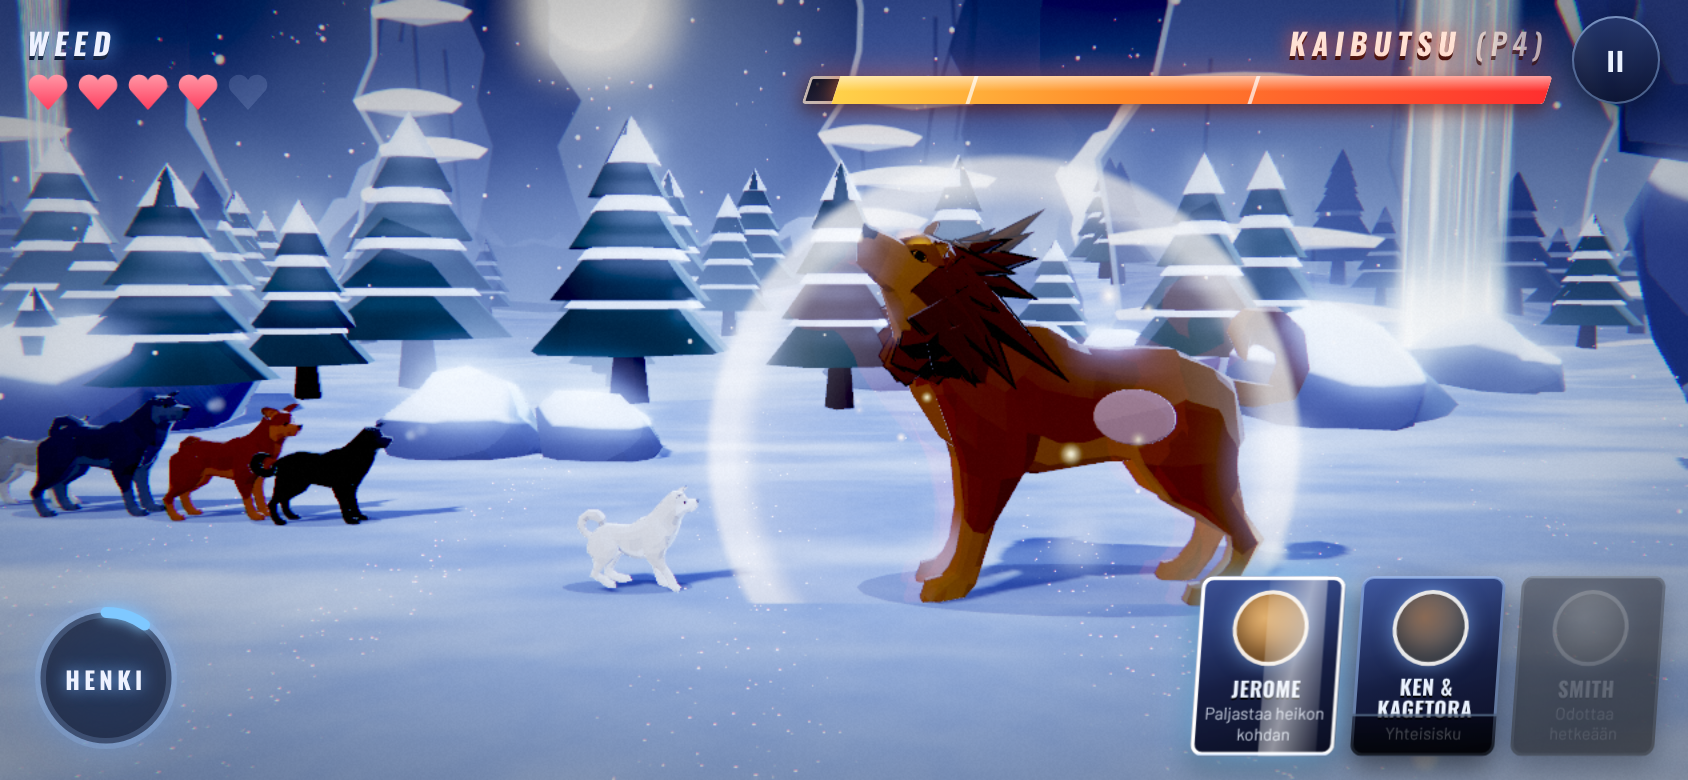
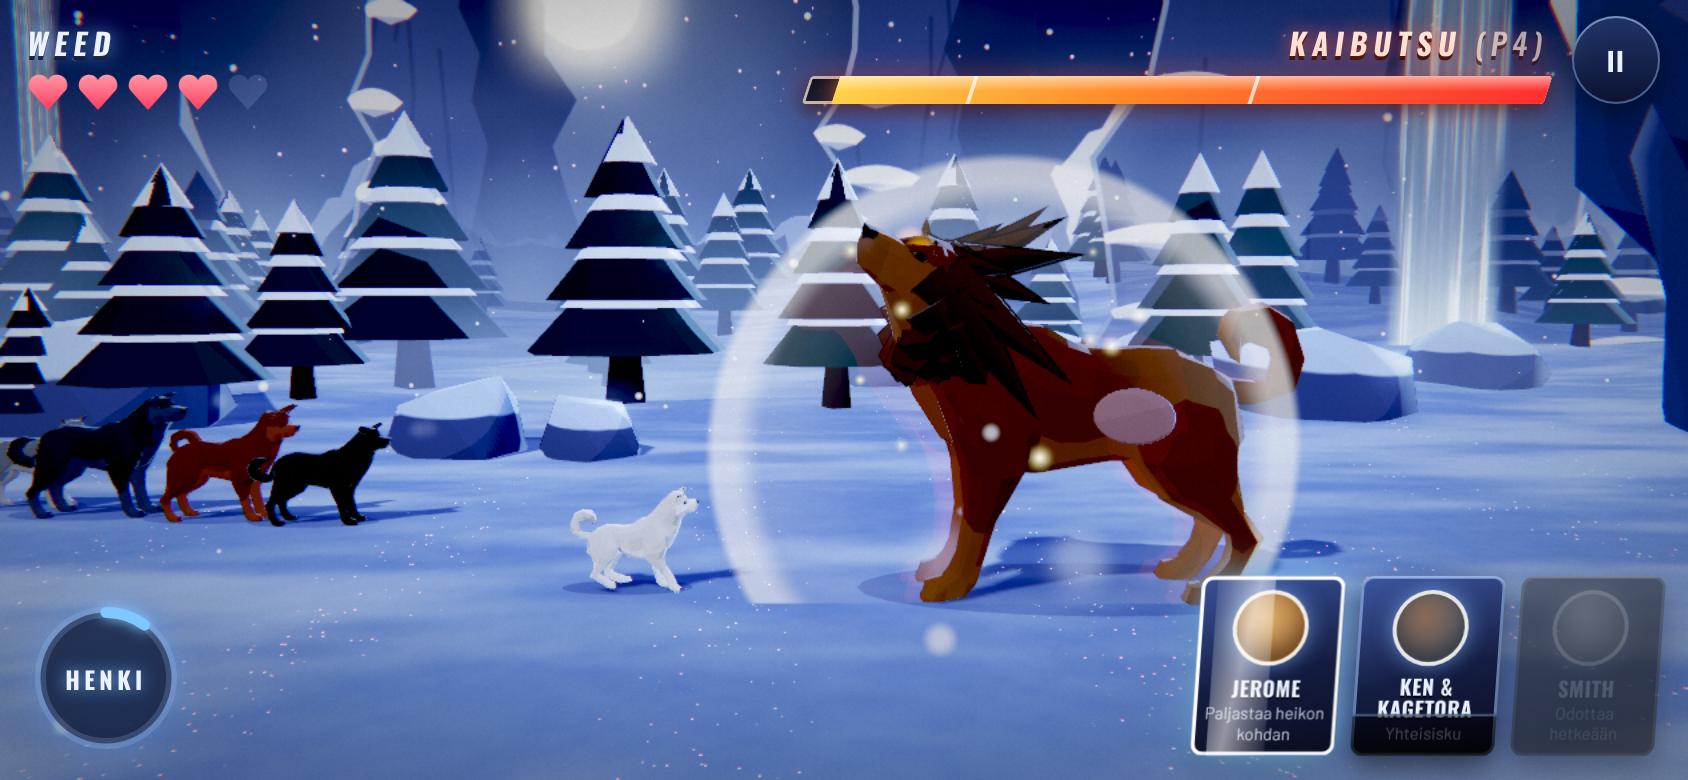
WIP gfx: tuning moods, cliff, iris transition
Claude-Session: https://claude.ai/code/session_016HLENcW9gu6Sv4d15G8kND

diff --git a/weed-game/src/world.js b/weed-game/src/world.js
@@ -124,11 +124,10 @@ function paintSpires(g, w, h) {
     g.globalAlpha = 1;
     // kuunvalon reuna vasemmalla
     g.strokeStyle = 'rgba(190,210,255,0.55)'; g.lineWidth = 5; g.beginPath(); g.moveTo(L[0][0] + 2, L[0][1]); for (const p of L) g.lineTo(p[0] + 2, p[1]); g.lineTo(tip[0], tip[1]); g.stroke();
-    // lumihyllyt
-    for (let i = 2; i <= N; i += 1 + Math.floor(r() * 3)) {
-      const y = L[i][1], x0 = L[i][0] - 2, x1 = x0 + (R[i][0] - L[i][0]) * (0.12 + r() * 0.28);
-      g.fillStyle = '#e4ecff'; g.beginPath(); g.moveTo(x0, y); g.quadraticCurveTo((x0 + x1) / 2, y - 12 - r() * 8, x1, y + 2); g.lineTo(x1 - 8, y + 9); g.lineTo(x0 + 4, y + 7); g.closePath(); g.fill();
-      g.fillStyle = '#93a6dc'; g.beginPath(); g.moveTo(x0 + 6, y + 6); g.lineTo(x1 - 6, y + 8); g.lineTo((x0 + x1) / 2, y + 13); g.closePath(); g.fill();
+    // lumijuovat vasemmalla reunalla
+    for (let i = 2; i <= N; i += 1 + Math.floor(r() * 2)) {
+      const y = L[i][1], x0 = L[i][0] - 1, len = 14 + r() * 30;
+      g.fillStyle = '#dfe8ff'; g.beginPath(); g.moveTo(x0, y - 6); g.lineTo(x0 + len, y + 4 + r() * 6); g.lineTo(x0 + len * 0.5, y + 12 + r() * 10); g.lineTo(x0 + 1, y + 16); g.closePath(); g.fill();
     }
     // huipun lumi
     g.fillStyle = '#eef3ff'; g.beginPath(); g.moveTo(tip[0], tip[1] - 2); g.lineTo(L[N][0] - 4, L[N][1] + 26); g.lineTo(x - 4, L[N][1] + 12 + r() * 20); g.lineTo(x + 10, L[N][1] + 40); g.lineTo(R[N][0] + 2, L[N][1] + 14); g.closePath(); g.fill();
@@ -329,6 +328,15 @@ export function buildWorld() {
     g.computeVertexNormals();
     return g;
   };
+  const slabGeo = (rad, seed) => {          // kulmikas kalliolohkare (jalusta)
+    const rr = rng(seed);
+    let g = new THREE.BoxGeometry(rad * 1.5, rad * 3.2, rad * 1.5, 2, 3, 2);
+    g.deleteAttribute('uv'); g.deleteAttribute('normal'); g = mergeVertices(g);
+    const p = g.attributes.position;
+    for (let i = 0; i < p.count; i++) { const t = p.getY(i) / (rad * 3.2) + 0.5, k = 1.15 - t * 0.5; p.setXYZ(i, p.getX(i) * k + (rr() - 0.5) * rad * 0.5, p.getY(i) + (rr() - 0.5) * rad * 0.5, p.getZ(i) * k + (rr() - 0.5) * rad * 0.5); }
+    g.computeVertexNormals();
+    return g;
+  };
   const staticRocks = [];
   for (let i = 0; i < 16; i++) {
     const g = rockGeo(0.7 + r() * 1.7, 100 + i);
@@ -344,14 +352,14 @@ export function buildWorld() {
   // oikean reunan kallio (josta kivivyöry tulee). children[3..] ovat irtolohkareita.
   const cliff = new THREE.Group();
   const cliffDefs = [
-    [15.8, 3.0, -6.8, 3.3], [13.5, 0.8, -4.9, 1.5], [17.6, 7.0, -7.6, 4.2],        // jalusta (pysyy)
+    [15.6, 4.2, -6.9, 3.1], [13.3, 1.6, -5.0, 1.5], [18.4, 6.0, -7.8, 4.0],        // jalusta (pysyy)
     [13.6, 5.6, -5.6, 2.3], [12.2, 7.4, -4.9, 1.6], [14.6, 8.4, -6.0, 2.4], [11.4, 9.0, -5.0, 1.5],
     [13.0, 10.2, -5.6, 2.0], [10.6, 10.4, -4.6, 1.2], [15.2, 11.4, -6.4, 2.4], [12.0, 12.2, -5.2, 1.6],
   ];
 
   cliffDefs.forEach(([x, y, z, rad], i) => {
-    const b = new THREE.Mesh(i < 3 ? rockGeo(rad, 300 + i, 1, 1.7, 0.3) : rockGeo(rad, 300 + i, 0, 1.0, 0.22), rockMat);
-    b.position.set(x, y, z); b.rotation.set(r() * 0.6, r() * 6, r() * 0.6);
+    const b = new THREE.Mesh(i < 3 ? slabGeo(rad, 300 + i) : rockGeo(rad, 300 + i, 0, 1.0, 0.22), rockMat);
+    b.position.set(x, y, z); b.rotation.set(i < 3 ? 0 : r() * 0.6, r() * 6, i < 3 ? (r() - 0.5) * 0.16 : r() * 0.6);
     b.castShadow = true; b.userData.home = b.position.clone();
     cliff.add(b); addOutline(b, { width: 0.0028 });
   });

diff --git a/weed-game/src/gfx/mood.js b/weed-game/src/gfx/mood.js
@@ -26,26 +26,26 @@ const MOODS = {
   night: {},
   // Kaibutsun raivo: panssari päällä, punainen hätä
   rage: {
-    skyTop: '#0b0614', skyMid: '#2a1230', skyHor: '#6b2a38', stars: 0.35, clouds: 0.55, cloudCol: '#2a1020',
-    fog: '#2a1428', haze: '#3a1c30', mistCol: '#8a5a6c', hemiSky: '#9a8cc0', hemiGround: '#3a1c28', hemi: 0.7,
-    key: '#e8d0d8', keyI: 1.5, back: '#ff4a2a', backI: 2.2, rim: '#ff6a40', rimAmt: 1.4,
-    layerTint: '#b88a98', snowCol: '#a898b8', snowShade: '#5a4672', wind: 2.2, snowAmt: 0.85, stretch: 1.6,
-    bloom: 0.75, sat: 1.05, contrast: 1.12, lift: '#f4dce4', gain: '#fff0e6', vig: 0.85, vigColor: '#1c0206', moon: 0.6,
+    skyTop: '#07050f', skyMid: '#1c0f26', skyHor: '#5c1f2a', stars: 0.35, clouds: 0.55, cloudCol: '#200c18',
+    fog: '#1e1426', haze: '#2c1a2c', mistCol: '#6a4a5c', hemiSky: '#8088b8', hemiGround: '#30202c', hemi: 0.72,
+    key: '#dcd4e8', keyI: 1.5, back: '#ff4a2a', backI: 0.9, rim: '#ff5a34', rimAmt: 1.9,
+    layerTint: '#9a8298', snowCol: '#9896b8', snowShade: '#46406c', wind: 2.2, snowAmt: 0.85, stretch: 1.6,
+    bloom: 0.75, sat: 1.05, contrast: 1.1, lift: '#efe2ee', gain: '#fff2ea', vig: 0.85, vigColor: '#200306', moon: 0.6,
   },
   // vaihe 2: lumimyrsky, punavioletti
   storm: {
-    skyTop: '#0a0714', skyMid: '#221633', skyHor: '#58304a', stars: 0.15, clouds: 0.72, cloudCol: '#231426',
-    fog: '#241630', fogDensity: 0.014, haze: '#33203e', mist: 0.8, mistCol: '#7a5a80', hemiSky: '#948ac8', hemiGround: '#33202e', hemi: 0.7,
-    key: '#dccce4', keyI: 1.45, back: '#ff3a24', backI: 2.6, rim: '#ff5a3a', rimAmt: 1.5,
-    layerTint: '#a888a4', snowCol: '#a094bc', snowShade: '#54446e', wind: 3.4, snowAmt: 1.0, stretch: 2.3,
-    bloom: 0.8, sat: 1.05, contrast: 1.14, lift: '#f2dce8', gain: '#ffeee4', vig: 0.9, vigColor: '#200308', moon: 0.35,
+    skyTop: '#07050f', skyMid: '#1a1028', skyHor: '#6a2228', stars: 0.15, clouds: 0.72, cloudCol: '#1c0e1a',
+    fog: '#1c1428', fogDensity: 0.014, haze: '#2a1a30', mist: 0.8, mistCol: '#644a66', hemiSky: '#7c84b8', hemiGround: '#2e1e2a', hemi: 0.7,
+    key: '#d4cce4', keyI: 1.45, back: '#ff3a24', backI: 1.0, rim: '#ff4a2c', rimAmt: 2.1,
+    layerTint: '#8c7a94', snowCol: '#9290b6', snowShade: '#423c68', wind: 3.4, snowAmt: 1.0, stretch: 2.3,
+    bloom: 0.8, sat: 1.05, contrast: 1.12, lift: '#eee0ee', gain: '#fff0e6', vig: 0.9, vigColor: '#260306', moon: 0.35,
   },
   // suru: hiljaisuus Smithin jälkeen
   grief: {
     skyTop: '#05070f', skyMid: '#141c30', skyHor: '#3a4660', stars: 0.6, clouds: 0.4, cloudCol: '#161c2c',
     fog: '#1c2436', haze: '#2a3448', mistCol: '#9aa6c0', back: '#9db4e0', backI: 0.8, rim: '#c8d8ff', rimAmt: 0.8,
     wind: 0.35, snowAmt: 0.45, bloom: 0.85, sat: 0.55, contrast: 1.0, lift: '#e8ecf8', gain: '#f4f6ff', vig: 0.8,
-    rays: 0.5, rayCol: '#c8d8ff',
+    rays: 0.22, rayCol: '#c8d8ff',
   },
   // Ōun henget: neljä nuolta / vaihe 3 – syvä sininen, revontulet syttyvät
   spirit: {

diff --git a/weed-game/src/engine.js b/weed-game/src/engine.js
@@ -103,7 +103,7 @@ export function initEngine(canvas) {
   initUiFx(E);
 
   const clock = new THREE.Clock();
-  let fpsAcc = 0, fpsN = 0, scanT = 0, focus = 10, lastFov = baseFov;
+  let fpsAcc = 0, fpsN = 0, scanT = 0, focus = 10, lastFov = baseFov, wasPlaying = null, irisT = -1;
   const look = new THREE.Vector3();
   E.fps = 60;
   const loop = () => {
@@ -172,6 +172,15 @@ export function initEngine(canvas) {
     const wantTilt = E.cine ? 0.8 : 0;
     post.tilt += (wantTilt - post.tilt) * Math.min(1, dtReal * 3);
     post.fade *= Math.pow(0.0015, dtReal); if (post.fade < 0.004) post.fade = 0;
+    // iris-siirtymä, kun taso alkaa tai päättyy
+    const S = window.__S, playing = !!(S && (S.active || S.cutscene));
+    if (wasPlaying !== null && playing !== wasPlaying) irisT = 0;
+    wasPlaying = playing;
+    if (irisT >= 0) {
+      irisT += dtReal;
+      post.iris = EASE.out(Math.min(1, irisT / 0.9)) * 1.4;
+      if (irisT >= 0.9) { irisT = -1; post.iris = 2; }
+    }
 
     if (!renderPost(E.scene, cam, dtReal, E.realTime)) {
       renderer.info.reset();

diff --git a/weed-game/src/gfx/post.js b/weed-game/src/gfx/post.js
@@ -77,10 +77,10 @@ void main(){
     col += bloom * uBloom;
     if (uRays > 0.01) {
       vec2 stp = (uSun - uv) * 0.085;
-      vec2 p = uv + stp * hash(uv * 311.0 + uTime);
+      vec2 p = uv;
       float w = 1.0; vec3 acc = vec3(0.0);
       for (int i = 0; i < 10; i++) { p += stp; acc += texture2D(tBloom, p).rgb * w; w *= 0.86; }
-      col += acc * uRayColor * (uRays * 0.16);
+      col += acc * uRayColor * (uRays * 0.12);
     }
   }
 
